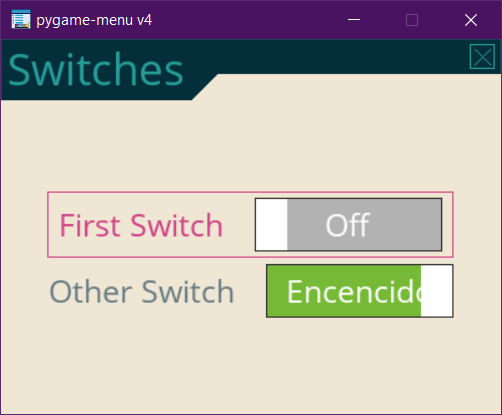
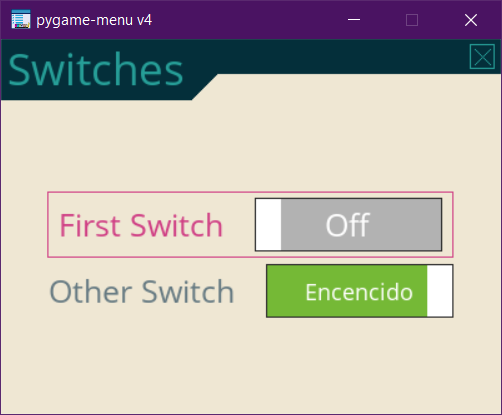
Improve docs widgets and menu

Changed region(s): [[0.5677, 0.6361, 0.8665, 0.7807], [0.5378, 0.4627, 0.5976, 0.6072]]

diff --git a/docs/add_widgets.py b/docs/add_widgets.py
@@ -47,7 +47,7 @@ icon = pygame_menu.baseimage.BaseImage(pygame_menu.baseimage.IMAGE_EXAMPLE_PYGAM
 pygame.display.set_icon(icon)
 
 # Set example, only this should change
-EXAMPLE = 'BUTTON'
+EXAMPLE = 'TOGGLESWITCH'
 
 # Create example
 menu: 'pygame_menu.Menu'
@@ -107,7 +107,7 @@ elif EXAMPLE == 'TOGGLESWITCH':
     menu = make_menu(pygame_menu.themes.THEME_SOLARIZED, 'Switches')
     menu.add_toggle_switch('First Switch', False, toggleswitch_id='first_switch')
     menu.add_toggle_switch('Other Switch', True, toggleswitch_id='second_switch',
-                           state_text=('Apagado', 'Encencido'))
+                           state_text=('Apagado', 'Encencido'), state_text_font_size=18)
 elif EXAMPLE == 'TEXTINPUT':
     menu = make_menu(pygame_menu.themes.THEME_GREEN, 'Text Entry')
     menu.add_text_input('First name: ', default='John')

diff --git a/docs/_source/create_menu.rst b/docs/_source/create_menu.rst
@@ -74,23 +74,28 @@ Also the width of each column can be set using ``column_max_width`` and
 On-close callback
 ^^^^^^^^^^^^^^^^^
 
-A callback can be defined using the ``onclose`` parameter, it will be
-called when the menu (end sub-menus) is closing. This parameter can take
-one of these two types of values:
+A callback can be defined using the ``onclose`` parameter; it will be
+called when the menu (end sub-menu) is closing. Closing the menu is the same
+as *disabling* it, but with callback firing.
 
- - a python callable object (a function, a method, a class, ...)
-   that will be called without any arguments.
- - a specific event of :py:mod:`pygame_menu`. The possible events are
+``onclose`` parameter can take one of these three types of values:
+
+ - ``None``, the menu don't disables if :py:meth:`pygame_menu.Menu.close`
+   is called
+ - A python callable object (a function, a method) that will be called
+   without any arguments, or with the ``Menu`` instance.
+ - A specific event of :py:mod:`pygame_menu`. The possible events are
    the following:
 
-   ===========================================  ========================================
+   ===========================================  =============================================================
    Event                                        Description
-   ===========================================  ========================================
-   :py:data:`pygame_menu.events.BACK`           Go back to the previously opened menu
-   :py:data:`pygame_menu.events.DISABLE_CLOSE`  The menu can not be closed
+   ===========================================  =============================================================
+   :py:data:`pygame_menu.events.BACK`           Go back to the previously opened menu and disable the current
+   :py:data:`pygame_menu.events.CLOSE`          Only disables the current menu
+   :py:data:`pygame_menu.events.NONE`           The same as ``onclose=None``
    :py:data:`pygame_menu.events.EXIT`           Exit the program (not only the menu)
-   :py:data:`pygame_menu.events.RESET`          Go back to the first opened menu
-   ===========================================  ========================================
+   :py:data:`pygame_menu.events.RESET`          Go back to the first opened menu and disable the current
+   ===========================================  =============================================================
 
 
 Display a menu
@@ -98,7 +103,7 @@ Display a menu
 
 The :ref:`First steps` chapter shows the way to display the menu, this
 method lets `pygame-menu` managing the event loop by calling the
-:py:meth:`pygame_menu.Menu.mainloop` :
+:py:meth:`pygame_menu.Menu.mainloop`:
 
 .. code-block:: python
     :emphasize-lines: 6

diff --git a/docs/_source/add_widgets.rst b/docs/_source/add_widgets.rst
@@ -30,7 +30,7 @@ three values:
 **Example:**
 
 .. image:: ../_static/widget_button.png
-    :scale: 30%
+    :scale: 70%
     :align: center
 
 .. code-block:: python
@@ -63,7 +63,7 @@ displayed, the others are the arguments passed to the callbacks
 **Example:**
 
 .. image:: ../_static/widget_selector.png
-    :scale: 30%
+    :scale: 70%
     :align: center
 
 .. code-block:: python
@@ -104,7 +104,7 @@ is a comma (``,``).
 **Example:**
 
 .. image:: ../_static/widget_colorinput.png
-    :scale: 30%
+    :scale: 70%
     :align: center
 
 .. code-block:: python
@@ -155,7 +155,7 @@ can be wrapped in order to fit the menu size.
 **Example:**
 
 .. image:: ../_static/widget_label.png
-    :scale: 30%
+    :scale: 70%
     :align: center
 
 .. code-block:: python
@@ -195,7 +195,7 @@ on entered characters can be set using ``input_type``, ``maxchar``,
 **Example:**
 
 .. image:: ../_static/widget_textinput.png
-    :scale: 30%
+    :scale: 70%
     :align: center
 
 .. code-block:: python
@@ -221,7 +221,7 @@ you need more options, take a look at the ``ToggleSwitch`` widget class.
 **Example:**
 
 .. image:: ../_static/widget_toggleswitch.png
-    :scale: 48%
+    :scale: 70%
     :align: center
 
 .. code-block:: python
@@ -230,7 +230,7 @@ you need more options, take a look at the ``ToggleSwitch`` widget class.
 
     menu.add_toggle_switch('First Switch', False, toggleswitch_id='first_switch')
     menu.add_toggle_switch('Other Switch', True, toggleswitch_id='second_switch',
-                           state_text=('Apagado', 'Encencido'))
+                           state_text=('Apagado', 'Encencido'), state_text_font_size=18)
 
 .. automethod:: pygame_menu.Menu.add_toggle_switch
 
@@ -244,7 +244,7 @@ visual rendering of the menu.
 **Example:**
 
 .. image:: ../_static/widget_vmargin.png
-    :scale: 30%
+    :scale: 70%
     :align: center
 
 .. code-block:: python
@@ -269,7 +269,7 @@ requires more CPU resources.
 **Example:**
 
 .. image:: ../_static/widget_image.png
-    :scale: 30%
+    :scale: 70%
     :align: center
 
 .. code-block:: python

diff --git a/docs/_source/migration_guide_3_to_4.rst b/docs/_source/migration_guide_3_to_4.rst
@@ -6,11 +6,13 @@ Migration Guide - v3 to v4
 - ``pygame_menu v4`` do not supports python 2.7 to 3.5.
 - Added ``__all__`` to module, then some usage cases importing with * may fail.
 - Menu ``add_image`` method parameter ``scale_smooth`` is now ``True`` by default.
+- Menu ``mainloop``, ``update`` and ``draw`` now raises ``RuntimeError`` if it's disabled. This behaviour can be changed though Menu private property ``_runtime_errors``.
 - Menu Column/Row positioning has changed, now ``column_max_width`` has a different behaviour. For setting the minimum width of columns use ``column_min_width``. Expect some minor changes to the global layout. Now is much more consistent.
 - Menu method ``get_width()`` changes to``get_width(inner=False, widget=False)``.
 - Moved ``previsualization_width`` colorinput method to ``kwargs``.
 - Removed ``column_force_fit_text`` from ``Menu`` constructor.
 - Removed ``dummy_function`` from ``pygame_menu.utils``.
+- Removed ``events.DISABLE_CLOSE``, use ``None`` or ``events.NONE`` instead.
 - Renamed ``touchscreen_enabled`` to ``touchscreen`` in ``Menu`` constructor.
 - Renamed ``Widget`` method from ``set_selected(selected=True)`` to ``select(status=True, update_menu=False)``.
 - Renamed widget ``expand_background_inflate_to_selection_effect`` to ``background_inflate_to_selection_effect``.
